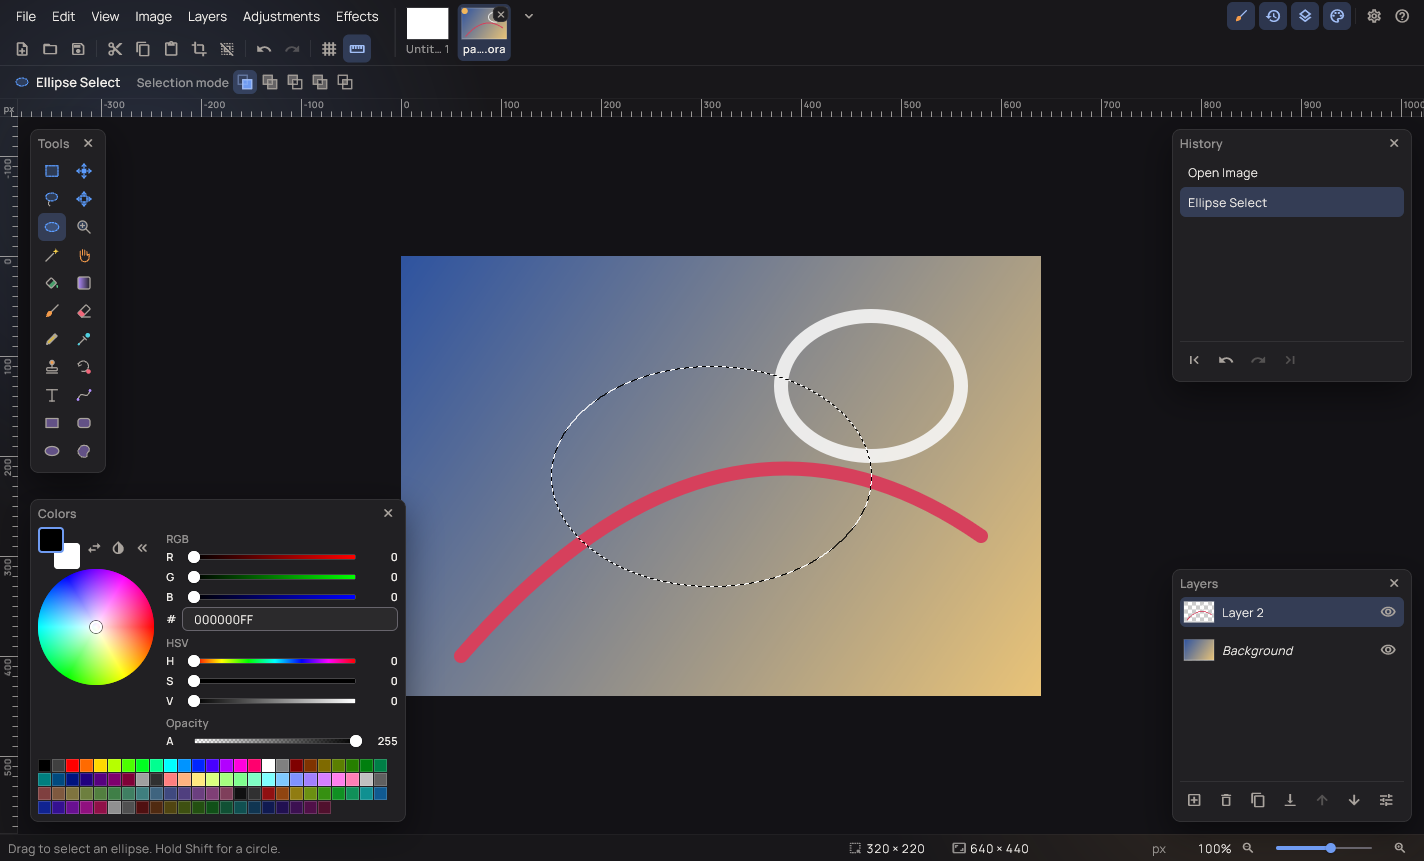
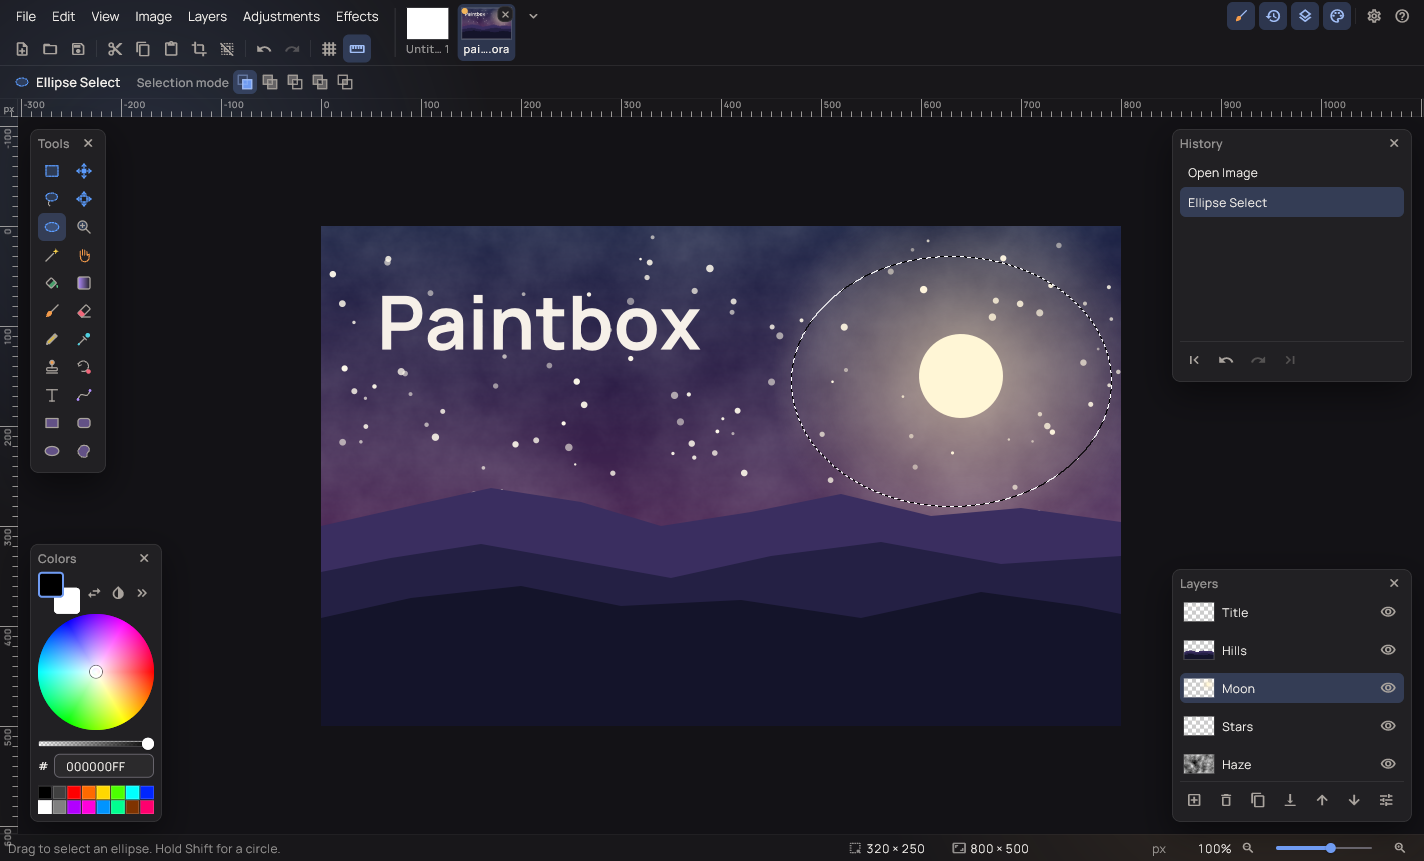
README screenshots: a night landscape of six layers, Colors as Less

diff --git a/app/lib/screenshot/screenshot_runner.dart b/app/lib/screenshot/screenshot_runner.dart
@@ -14,9 +14,11 @@ import 'package:path/path.dart' as p;
 /// `<target>-<scene>.png` for each and quits.
 ///
 /// - `empty`: the blank image as the program starts;
-/// - `layers`: an OpenRaster file with two layers, opened as File > Open
-///   opens it, with an elliptical selection drawn by the pointer;
-/// - `effect`: the Gaussian Blur dialog previewing on that image.
+/// - `layers`: an OpenRaster file of six layers (a night landscape made
+///   with the core's own tools and effects), opened as File > Open opens
+///   it, the Colors window as Less, with an elliptical selection drawn
+///   by the pointer around the moon;
+/// - `effect`: the Gaussian Blur dialog previewing on that selection.
 class ScreenshotRunner {
   ScreenshotRunner({
     required this.target,
@@ -123,10 +125,9 @@ class ScreenshotRunner {
               continue;
             }
             await _end(bloc);
-            // Colors as Less, the Text tool's settings in the bar.
-            bloc
-              ..add(const ColorsMoreToggledEvent())
-              ..add(const ToolSelectedEvent(Tool.text));
+            // Colors is Less since the layered file; the Text tool's
+            // settings in the bar.
+            bloc.add(const ToolSelectedEvent(Tool.text));
             await _settle(const Duration(milliseconds: 600));
           case 'strips':
             if (!wanted) {
@@ -240,7 +241,8 @@ class ScreenshotRunner {
         ),
       );
     await _settle(const Duration(milliseconds: 300));
-    await _drag(bloc, const ui.Offset(60, 40), const ui.Offset(60, 40));
+    // On the hills, under the title the picture already has.
+    await _drag(bloc, const ui.Offset(56, 330), const ui.Offset(56, 330));
     bloc
       ..add(const TextTypedEvent('Paintbox'))
       ..add(const TextKeyPressedEvent(TextKey.enter, ctrl: false))
@@ -306,7 +308,7 @@ class ScreenshotRunner {
   }
 
   Future<void> _layers(EditorBloc bloc) async {
-    final path = await _makeLayeredFile();
+    final path = await _makeLayeredFile(language);
     bloc.add(OpenPathsEvent([path]));
     await _settle(const Duration(milliseconds: 1200));
     final ready = bloc.state;
@@ -314,9 +316,13 @@ class ScreenshotRunner {
       throw StateError('the image did not open');
     }
     final view = ready.view!;
-    bloc.add(const ToolSelectedEvent(Tool.ellipseSelect));
-    final from = view.toScreen(const ui.Offset(150, 110));
-    final to = view.toScreen(const ui.Offset(470, 330));
+    // Colors as Less: the picture, not the wheel, is what the shot is
+    // about. An ellipse around the moon, for the effect to preview in.
+    bloc
+      ..add(const ColorsMoreToggledEvent())
+      ..add(const ToolSelectedEvent(Tool.ellipseSelect));
+    final from = view.toScreen(const ui.Offset(470, 30));
+    final to = view.toScreen(const ui.Offset(790, 280));
     bloc.add(
       CanvasPointerDownEvent(
         position: from,
@@ -342,27 +348,42 @@ class ScreenshotRunner {
     await _settle(const Duration(milliseconds: 900));
   }
 
-  /// Two layers made with the core's own tools: a gradient background
-  /// and, above it, strokes and a filled ellipse on a transparent layer.
-  static Future<String> _makeLayeredFile() async {
+  /// A night landscape of six layers made with the core's own tools and
+  /// effects, so the picture shows what the program does: a sky
+  /// gradient, a haze of Clouds screened over it, stars, a moon with a
+  /// halo of a radial gradient, three ranges of hills as freeform
+  /// shapes, and the title in the Text tool. The moon's layer is active
+  /// (the effect scene blurs it). The layers are named in the language
+  /// of the shot.
+  static Future<String> _makeLayeredFile(String language) async {
+    final names = switch (language) {
+      'uk' => const ['Небо', 'Серпанок', 'Зорі', 'Місяць', 'Пагорби', 'Назва'],
+      _ => const ['Sky', 'Haze', 'Stars', 'Moon', 'Hills', 'Title'],
+    };
+    const width = 800;
+    const height = 500;
+    const white = Rgba8(r: 255, g: 255, b: 255, a: 255);
     final image = PaintImage.blank(
-      width: 640,
-      height: 440,
-      background: const Rgba8(r: 255, g: 255, b: 255, a: 255),
-      colors: const UserColors(
-        primary: Rgba8(r: 47, g: 84, b: 160, a: 255),
-        secondary: Rgba8(r: 234, g: 196, b: 120, a: 255),
-      ),
+      width: width,
+      height: height,
+      background: white,
+      colors: const UserColors(primary: white, secondary: white),
     );
-    final settings = defaultToolSettings().copyWith(width: 14);
-    void drag(Tool tool, List<(double, double)> points, {bool right = false}) {
+    var settings = defaultToolSettings();
+    var layer = 0;
+
+    void colors(Rgba8 primary, [Rgba8? secondary]) => image.setColors(
+      colors: UserColors(primary: primary, secondary: secondary ?? primary),
+      settings: settings,
+    );
+    void drag(Tool tool, List<(double, double)> points, {bool finish = true}) {
       final (x0, y0) = points.first;
       image.press(
         tool: tool,
         settings: settings,
         x: x0,
         y: y0,
-        secondary: right,
+        secondary: false,
         ctrl: false,
         alt: false,
         shift: false,
@@ -372,43 +393,182 @@ class ScreenshotRunner {
         image.moveTo(settings: settings, x: x, y: y);
       }
       final (x1, y1) = points.last;
-      image
-        ..release(
-          settings: settings,
-          x: x1,
-          y: y1,
-          secondary: right,
-          ctrl: false,
-          alt: false,
-          shift: false,
-          time: 1,
-        )
-        ..finish();
+      image.release(
+        settings: settings,
+        x: x1,
+        y: y1,
+        secondary: false,
+        ctrl: false,
+        alt: false,
+        shift: false,
+        time: 1,
+      );
+      if (finish) {
+        image.finish();
+      }
     }
 
-    drag(Tool.gradient, [(0, 0), (320, 220), (640, 440)]);
-    image.run(id: 'add_layer');
-    image.setColors(
-      colors: const UserColors(
-        primary: Rgba8(r: 214, g: 64, b: 92, a: 255),
-        secondary: Rgba8(r: 250, g: 250, b: 250, a: 220),
-      ),
-      settings: settings,
+    void name(
+      String name, {
+      BlendMode blend = BlendMode.normal,
+      int opacity = 255,
+    }) {
+      image.setLayerProperties(
+        index: layer,
+        properties: LayerProperties(
+          name: name,
+          visible: true,
+          opacity: opacity,
+          blendMode: blend,
+          isBackground: layer == 0,
+        ),
+      );
+    }
+
+    void addLayer() {
+      image.run(id: 'add_layer');
+      layer += 1;
+    }
+
+    // An effect through its dialog, as Effects > ... applies it: the
+    // render runs on a worker, so the dialog is polled until it is in.
+    Future<void> effect(String id, Map<String, double> params) async {
+      if (!image.openPreview(id: id)) {
+        throw StateError('no dialog for $id');
+      }
+      for (final MapEntry(:key, :value) in params.entries) {
+        image.setPreviewParam(name: key, values: [value]);
+      }
+      for (var i = 0; i < 400; i++) {
+        await Future<void>.delayed(const Duration(milliseconds: 30));
+        if (!image.pollPreview().rendering) {
+          break;
+        }
+      }
+      if (!image.endPreview(ok: true)) {
+        for (var i = 0; i < 400; i++) {
+          await Future<void>.delayed(const Duration(milliseconds: 30));
+          if (!image.pollPreview().open) {
+            break;
+          }
+        }
+      }
+    }
+
+    // The sky: night blue above, dusk plum at the horizon.
+    colors(
+      const Rgba8(r: 12, g: 20, b: 56, a: 255),
+      const Rgba8(r: 118, g: 52, b: 104, a: 255),
     );
-    drag(Tool.paintbrush, [
-      for (var i = 0; i <= 40; i++) (60.0 + i * 13, 340 - 120 * _wave(i / 40)),
+    settings = settings.copyWith(gradient: GradientKind.linear);
+    drag(Tool.gradient, [(400, 0), (400, height.toDouble())]);
+    name(names[0]);
+
+    // A haze: Clouds, screened faintly over the sky.
+    addLayer();
+    await effect('effect:clouds', {'scale': 340, 'power': 0.6});
+    name(names[1], blend: BlendMode.screen, opacity: 54);
+
+    // Stars: small filled ellipses, scattered the same way every time.
+    addLayer();
+    settings = settings.copyWith(shapeDraw: ShapeDraw.interior, width: 1);
+    var seed = 20261029;
+    double next() {
+      seed = (seed * 1103515245 + 12345) & 0x7fffffff;
+      return seed / 0x7fffffff;
+    }
+
+    for (var i = 0; i < 110; i++) {
+      final x = next() * width;
+      final y = next() * 300;
+      final size = 1.2 + next() * 2.6;
+      final alpha = 120 + (next() * 135).round();
+      colors(Rgba8(r: 255, g: 250, b: 236, a: alpha));
+      drag(Tool.ellipse, [(x - size, y - size), (x + size, y + size)]);
+    }
+    name(names[2]);
+
+    // The moon: a halo of a radial gradient fading to nothing, then the
+    // disc.
+    addLayer();
+    colors(
+      const Rgba8(r: 255, g: 234, b: 186, a: 150),
+      const Rgba8(r: 255, g: 234, b: 186, a: 0),
+    );
+    settings = settings.copyWith(gradient: GradientKind.radial);
+    drag(Tool.gradient, [(640, 150), (830, 150)]);
+    colors(const Rgba8(r: 255, g: 246, b: 214, a: 255));
+    drag(Tool.ellipse, [(598, 108), (682, 192)]);
+    name(names[3]);
+
+    // Three ranges of hills, nearer ones darker.
+    addLayer();
+    colors(const Rgba8(r: 58, g: 46, b: 96, a: 255));
+    drag(Tool.freeformShape, [
+      (0, 300),
+      (80, 282),
+      (170, 262),
+      (260, 276),
+      (340, 300),
+      (430, 286),
+      (520, 268),
+      (610, 290),
+      (700, 282),
+      (800, 296),
+      (800, 500),
+      (0, 500),
     ]);
-    drag(Tool.ellipse, [(380, 60), (560, 200)], right: true);
-    final path = p.join(Directory.systemTemp.path, 'paintbox-two-layers.ora');
+    colors(const Rgba8(r: 36, g: 32, b: 68, a: 255));
+    drag(Tool.freeformShape, [
+      (0, 346),
+      (70, 332),
+      (160, 318),
+      (250, 334),
+      (350, 352),
+      (450, 330),
+      (560, 316),
+      (680, 338),
+      (800, 330),
+      (800, 500),
+      (0, 500),
+    ]);
+    colors(const Rgba8(r: 20, g: 20, b: 42, a: 255));
+    drag(Tool.freeformShape, [
+      (0, 392),
+      (90, 372),
+      (200, 360),
+      (300, 380),
+      (420, 374),
+      (540, 392),
+      (660, 366),
+      (760, 380),
+      (800, 388),
+      (800, 500),
+      (0, 500),
+    ]);
+    name(names[4]);
+
+    // The title: a click of the Text tool opens the caret, the typing
+    // follows, and finishing commits it (a finish before the typing
+    // would drop the caret instead).
+    addLayer();
+    colors(const Rgba8(r: 246, g: 240, b: 232, a: 255));
+    settings = settings.copyWith(fontSize: 56, bold: true);
+    drag(Tool.text, [(56, 44)], finish: false);
+    if (!image.typeText(settings: settings, text: 'Paintbox')) {
+      throw StateError('the Text tool did not take the title');
+    }
+    image.finish();
+    name(names[5]);
+
+    image.setActiveLayer(index: 3);
+    final path = p.join(Directory.systemTemp.path, 'paintbox-night.ora');
     final snapshot = image.snapshot();
     await writeSnapshot(snapshot: snapshot, path: path, jpegQuality: 95);
     snapshot.dispose();
     image.dispose();
     return path;
   }
-
-  static double _wave(double t) =>
-      0.5 - 0.5 * (t * 2 - 1) * (t * 2 - 1) * 2 + t;
 
   Future<void> _capture(GlobalKey boundary, String name) async {
     await WidgetsBinding.instance.endOfFrame;

diff --git a/docs/building.md b/docs/building.md
@@ -70,11 +70,11 @@ of them.
 | Scene | What it shows |
 |---|---|
 | `empty` | The blank image the program starts with. |
-| `layers` | An OpenRaster file with two layers (a gradient, and a stroke with an ellipse drawn by the core's tools), opened the way File > Open opens it, with an elliptical selection dragged by the pointer. |
+| `layers` | An OpenRaster file of six layers, a night landscape made with the core's own tools and effects (a sky gradient, Clouds screened over it, stars, a moon with a radial-gradient halo, hills as freeform shapes, the title in the Text tool), opened the way File > Open opens it, the Colors window in Less mode, with an elliptical selection dragged by the pointer around the moon. The layers are named in the shot's language. |
 | `effect` | The Gaussian Blur dialog previewing on the selection. |
 | `text`, `lines`, `transform` | The Text tool; line ends and dash styles; a rotated fragment. |
 | `effects` | One picture per effect. |
-| `compact` | The Colors window in Less mode and the Text tool's settings. |
+| `compact` | The Text tool's settings in the tool bar (Colors in Less mode, as in `layers`). |
 | `strips` | The tool bar of each kind of tool (`strip-<tool>`). |
 
 Screenshots neither read nor write the user's settings, and the

diff --git a/README.uk.md b/README.uk.md
@@ -13,7 +13,7 @@ Windows, Linux і macOS.
 > про помилки та пропозиції приймаються на сторінці
 > [Issues](../../issues).
 
-![Paintbox із двошаровим зображенням і еліптичним виділенням, темна тема](docs/images/uk-dark.png)
+![Paintbox із нічним пейзажем на шести шарах і еліптичним виділенням навколо місяця, темна тема](docs/images/uk-dark.png)
 
 ## Можливості
 
@@ -51,7 +51,7 @@ Windows, Linux і macOS.
 
 ![Те саме зображення у світлій темі із зеленим акцентом](docs/images/uk-light.png)
 
-![Діалог «Розмиття Гаусса» з попереднім переглядом на виділенні](docs/images/uk-effect.png)
+![Діалог «Розмиття Гаусса» з попереднім переглядом на виділеному місяці](docs/images/uk-effect.png)
 
 ## Завантажити
 

diff --git a/README.md b/README.md
@@ -12,7 +12,7 @@ macOS.
 > keep copies of the images you care about. Bug reports and suggestions
 > are welcome on the [Issues](../../issues) page.
 
-![Paintbox with a two-layer image and an elliptical selection, dark theme](docs/images/en-dark.png)
+![Paintbox with a six-layer night landscape and an elliptical selection around the moon, dark theme](docs/images/en-dark.png)
 
 ## Features
 
@@ -45,7 +45,7 @@ macOS.
 
 ![The same image in the light theme with a green accent](docs/images/en-light.png)
 
-![The Gaussian Blur dialog previewing on the selection](docs/images/en-effect.png)
+![The Gaussian Blur dialog previewing on the selected moon](docs/images/en-effect.png)
 
 ## Download
 
